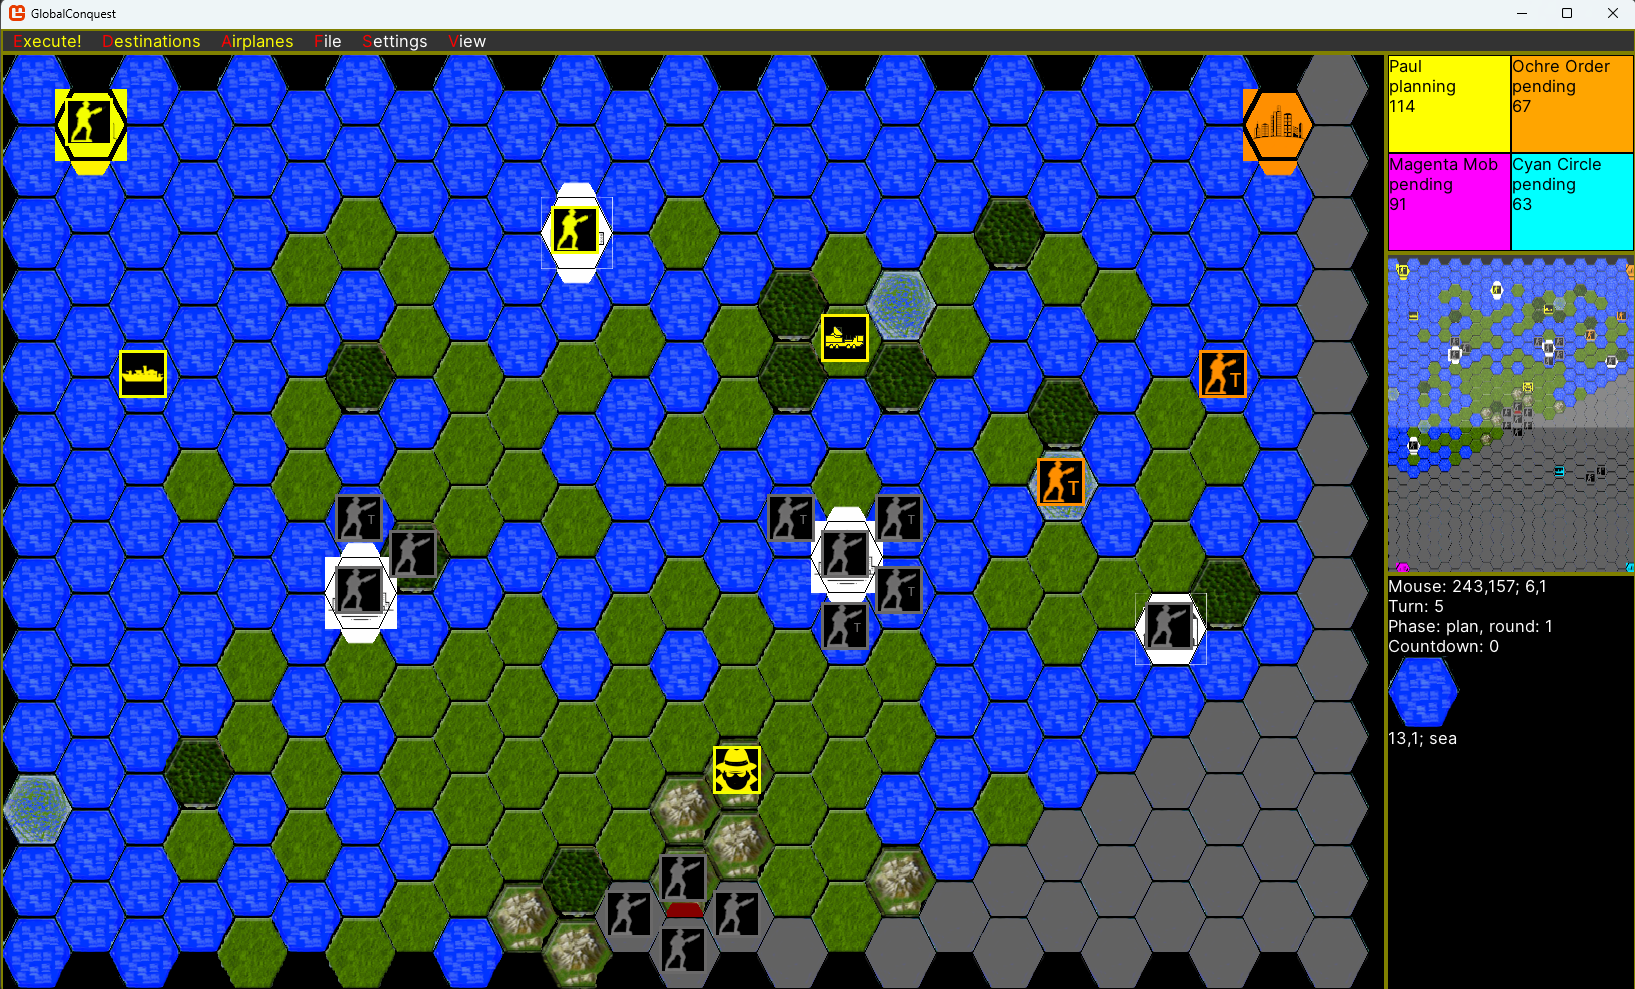
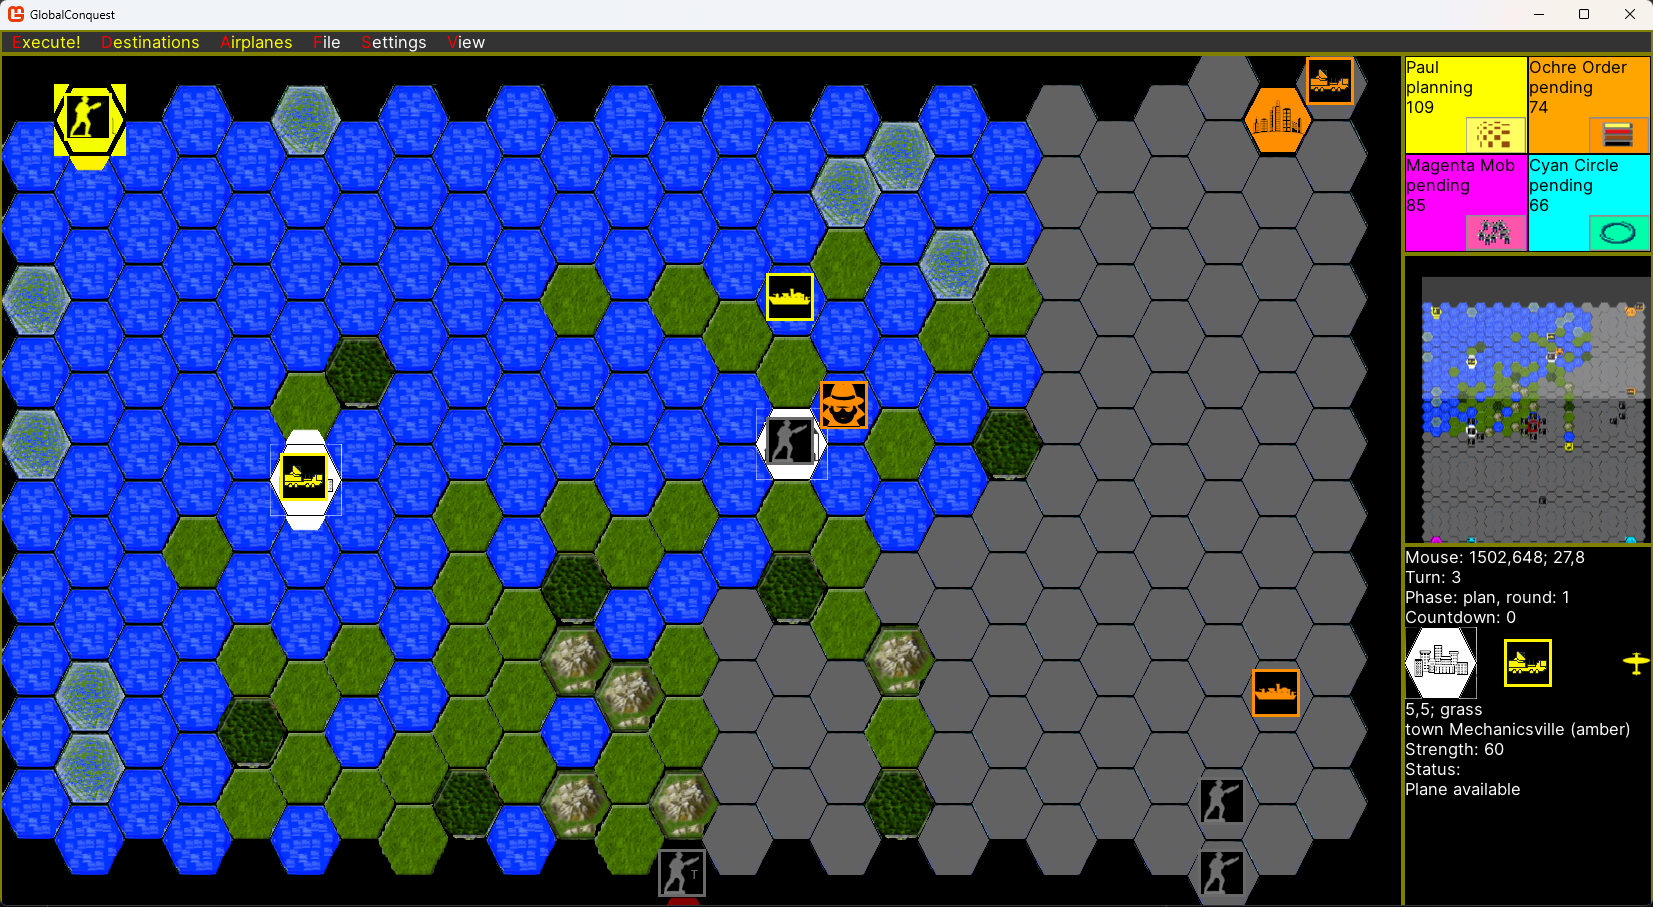
WIP for Decoy ComCen.

diff --git a/HexMapEngineAdapter.cs b/HexMapEngineAdapter.cs
@@ -238,6 +238,11 @@ class HexMapEngineAdapter
         Texture2D cyanSpy = game.Content.Load<Texture2D>("cyan-spy-48x48");
         units["cyan-spy"] = cyanSpy;
 
+        units["amber-decoy-comcen"] = game.Content.Load<Texture2D>("amber-decoy-comcen-48x48");
+        units["cyan-decoy-comcen"] = game.Content.Load<Texture2D>("cyan-decoy-comcen-48x48");
+        units["magenta-decoy-comcen"] = game.Content.Load<Texture2D>("magenta-decoy-comcen-48x48");
+        units["ocher-decoy-comcen"] = game.Content.Load<Texture2D>("ocher-decoy-comcen-48x48");
+
         // magenta-plane-white-30px
         // magenta-plane-black-30px
         // magenta-plane-transparent-30px
@@ -256,6 +261,7 @@ class HexMapEngineAdapter
         textures["amber-array"] = game.Content.Load<Texture2D>("gc-amber-array");
         textures["cyan-circle"] = game.Content.Load<Texture2D>("gc-cyan-circle");
         textures["magenta-mob"] = game.Content.Load<Texture2D>("gc-magenta-mob");
+
 
         Texture2D hexHighlight = game.Content.Load<Texture2D>("YellowHexagonOutline_72x72");
         textures["mapHexHighlight"] = hexHighlight;
@@ -347,90 +353,6 @@ class HexMapEngineAdapter
         Draw_TileMap(csScrollDirection, ciRowPosition, ciColumnPosition);
         //DrawCities();
         //DrawUnits();
-    }
-
-    public void DrawCities()
-    {
-        MapHex[,] hexes = gcGame.Client.GameState.Map.Hexes;
-        Player player = identifySelf();
-        for (int liY = 0; liY < hexHeight; liY++)
-        {
-            for (int liX = 0; liX < hexWidth; liX++)
-            {
-                Burb? burb = hexes[liY, liX].Burb;
-                if (burb != null && !"suburb".Equals(burb.Type) && !"dock".Equals(burb.Type))
-                {
-                    string burbId = burb.Type;
-                    if ("metro".Equals(burb.Type))
-                        burbId = burb.Color + "-" + burb.Type;
-                    drawBurbAtHex(liY, liX, burbId, burb, null, player);
-                }
-            }
-        }
-        for (int liY = 0; liY < hexHeight; liY++)
-        {
-            for (int liX = 0; liX < hexWidth; liX++)
-            {
-                Burb? burb = hexes[liY, liX].Burb;
-                if (burb != null && burb.DirectionFromParent != null)
-                {
-                    drawBurbAtHex(liY, liX, "", burb, null, player);
-                }
-            }
-        }
-    }
-
-    public void DrawUnits()
-    {
-        MapHex[,] hexes = gcGame.Client.GameState.Map.Hexes;
-        bool isObserver = gcGame.Client.IsObserverOnly;
-        for (int liY = 0; liY < hexHeight; liY++)
-        {
-            for (int liX = 0; liX < hexWidth; liX++)
-            {
-                MapHex mapHex = hexes[liY, liX];
-                Player player = identifySelf();
-                Unit unit = mapHex.getUnit();
-                if (unit != null && unit.StrengthPoints > 0)
-                {
-                    Globals.Log("DrawUnits(): " + (unit.TemporarySpyVisibility.ContainsKey(player.FactionColor) ? unit.TemporarySpyVisibility[player.FactionColor] : false));
-                    string unitTypeId = unit.Color + "-" + unit.UnitType;
-                    if (isObserver || 
-                        (unit.Visibility.ContainsKey(player.FactionColor) && 
-                        unit.Visibility[player.FactionColor]) || 
-                        (unit.TemporarySpyVisibility.ContainsKey(player.FactionColor) && 
-                        unit.TemporarySpyVisibility[player.FactionColor])
-                       )
-                    {
-                        if (unit.ParentUnitId == null || gcGame.IsShowAirplanes)
-                            drawUnitAtHex(liY, liX, unitTypeId, null);
-                        if (unit.Airplane != null && gcGame.IsShowAirplanes)
-                        {
-                            //Globals.Log("DrawUnits(): plane found on unit");
-                            drawUnitAtHex(liY, liX, unit.Color + "-plane", null);
-                        }
-                    }
-                    //if (unit.IsAttacked)
-                    //    drawFlame(liY, liX);
-                }
-                Unit plane = mapHex.Airplane;
-                if (plane != null && plane.StrengthPoints > 0)
-                {
-                    string unitTypeId = plane.Color + "-" + plane.UnitType;
-                    // TODO: figure out plane visibility settings
-                    if (isObserver || 
-                        (mapHex.Visibility.ContainsKey(player.FactionColor) && 
-                         mapHex.Visibility[player.FactionColor]))
-                    {
-                        if (plane != null && gcGame.IsShowAirplanes)
-                        {
-                            //Globals.Log("DrawUnits(): plane found on hex");
-                            drawUnitAtHex(liY, liX, unitTypeId, null);
-                        }
-                    }
-                }
-            }
-        }
     }
 
     private void drawUnitAtHex(int row, int column, string unitTypeId, Rectangle? sourceRectangle)
@@ -798,13 +720,12 @@ class HexMapEngineAdapter
 
         int liTileOffsetX = (int)coHexTileMap.cameraWrapper.CAMERA_VECTOR2_LOCATION.X;
         int liTileOffsetY = (int)coHexTileMap.cameraWrapper.CAMERA_VECTOR2_LOCATION.Y;
-
+        Rectangle unitRectangle = new Rectangle(0, 0, 48, 48);
+        Rectangle planeRectangle = new Rectangle(0, 0, 30, 30);
 
         MapHex[,] hexes = gcGame.Client.GameState.Map.Hexes;
         bool isObserver = gcGame.Client.IsObserverOnly;
         Rectangle sourceRectangle = new Rectangle(0, 0, HexMapEngine.Structures.Global.ACTUAL_TILE_WIDTH_IN_PIXELS, HexMapEngine.Structures.Global.ACTUAL_TILE_HEIGHT_IN_PIXELS);
-        Rectangle unitRectangle = new Rectangle(0, 0, 48, 48);
-        Rectangle planeRectangle = new Rectangle(0, 0, 30, 30);
         Player player = identifySelf();
 
         for (int liY = 0; liY < (HexMapEngine.Structures.Global.ACTUAL_MAP_HEIGHT_IN_TILES); liY++)
@@ -860,64 +781,83 @@ class HexMapEngineAdapter
 
                 }
 
-                // DrawCities()
-                Burb? burb = hexes[liY, liX].Burb;
-                if (burb != null && !"suburb".Equals(burb.Type) && !"dock".Equals(burb.Type))
-                {
-                    string burbId = burb.Type;
-                    if ("metro".Equals(burb.Type))
-                        burbId = burb.Color + "-" + burb.Type;
-                    drawBurbAtHex(liY, liX, burbId, burb, sourceRectangle, player);
-                }
-                if (burb != null && burb.DirectionFromParent != null)
-                {
-                    drawBurbAtHex(liY, liX, "", burb, sourceRectangle, player);
-                }
+                DrawBurbAtMapHex(mapHex, player, sourceRectangle);
 
-
-                // DrawUnits
-                Unit unit = mapHex.getUnit();
-                if (unit != null && unit.StrengthPoints > 0)
-                {
-                    string unitTypeId = unit.Color + "-" + unit.UnitType;
-                    if (isObserver || 
-                       (unit.Visibility.ContainsKey(player.FactionColor) && unit.Visibility[player.FactionColor]) ||
-                        (unit.TemporarySpyVisibility.ContainsKey(player.FactionColor) && 
-                        unit.TemporarySpyVisibility[player.FactionColor]))
-                    {
-                        if (unit.ParentUnitId == null || gcGame.IsShowAirplanes)
-                            drawUnitAtHex(liY, liX, unitTypeId, unitRectangle);
-                        if (unit.Airplane != null && gcGame.IsShowAirplanes)
-                        {
-                            //Globals.Log("DrawUnits(): plane found on unit");
-                            drawUnitAtHex(liY, liX, unit.Color + "-plane", planeRectangle);
-                        }
-                    }
-                    //if (unit.IsAttacked)
-                    //    drawFlame(liY, liX);
-                }
-                Unit plane = mapHex.Airplane;
-                if (plane != null && plane.StrengthPoints > 0)
-                {
-                    string unitTypeId = plane.Color + "-" + plane.UnitType;
-                    // TODO: figure out plane visibility settings
-                    if (isObserver || 
-                        (mapHex.Visibility.ContainsKey(player.FactionColor) && mapHex.Visibility[player.FactionColor]) ||
-                        (unit.TemporarySpyVisibility.ContainsKey(player.FactionColor) && 
-                        unit.TemporarySpyVisibility[player.FactionColor]))
-                    {
-                        if (plane != null && gcGame.IsShowAirplanes)
-                        {
-                            //Globals.Log("DrawUnits(): plane found on hex");
-                            drawUnitAtHex(liY, liX, unitTypeId, planeRectangle);
-                        }
-                    }
-                }
-
-
+                DrawUnitAtMapHex(mapHex, isObserver, player, unitRectangle, planeRectangle);
             }
         }
 
+    }
+
+    private void DrawBurbAtMapHex(MapHex mapHex, Player player, Rectangle sourceRectangle)
+    {
+        if (mapHex == null)
+            return;
+        int liY = mapHex.Y;
+        int liX = mapHex.X;
+        Burb? burb = mapHex.Burb;
+        if (burb != null && !"suburb".Equals(burb.Type) && !"dock".Equals(burb.Type))
+        {
+            string burbId = burb.Type;
+            if ("metro".Equals(burb.Type))
+                burbId = burb.Color + "-" + burb.Type;
+            drawBurbAtHex(liY, liX, burbId, burb, sourceRectangle, player);
+        }
+        if (burb != null && burb.DirectionFromParent != null)
+        {
+            drawBurbAtHex(liY, liX, "", burb, sourceRectangle, player);
+        }
+    }
+
+    private void DrawUnitAtMapHex(MapHex mapHex, bool isObserver, Player player, Rectangle unitRectangle, Rectangle planeRectangle)
+    {
+        if (mapHex == null)
+            return;
+        Unit unit = mapHex.getUnit();
+        int liY = mapHex.Y;
+        int liX = mapHex.X;
+        if (unit != null && unit.StrengthPoints > 0)
+        {
+            string unitTypeId = unit.Color + "-" + unit.UnitType;
+            if (DECOY_COMMAND_CENTER.Equals(unit.UnitType) && !player.FactionColor.Equals(unit.Color))
+            {
+                unitTypeId = unit.Color + "-" + COMMAND_CENTER;
+            }
+            if (isObserver || 
+                (unit.Visibility.ContainsKey(player.FactionColor) && unit.Visibility[player.FactionColor]) ||
+                (unit.TemporarySpyVisibility.ContainsKey(player.FactionColor) && 
+                unit.TemporarySpyVisibility[player.FactionColor]))
+            {
+                if (unit.ParentUnitId == null || !gcGame.IsShowAirplanes)
+                {
+                    drawUnitAtHex(liY, liX, unitTypeId, unitRectangle);
+                }
+                if (unit.Airplane != null && gcGame.IsShowAirplanes)
+                {
+                    //Globals.Log("DrawUnits(): plane found on unit");
+                    drawUnitAtHex(liY, liX, unit.Color + "-plane", planeRectangle);
+                }
+            }
+            //if (unit.IsAttacked)
+            //    drawFlame(liY, liX);
+        }
+        Unit plane = mapHex.Airplane;
+        if (plane != null && plane.StrengthPoints > 0)
+        {
+            string unitTypeId = plane.Color + "-" + plane.UnitType;
+            // TODO: figure out plane visibility settings
+            if (isObserver || 
+                (mapHex.Visibility.ContainsKey(player.FactionColor) && mapHex.Visibility[player.FactionColor]) ||
+                (unit.TemporarySpyVisibility.ContainsKey(player.FactionColor) && 
+                unit.TemporarySpyVisibility[player.FactionColor]))
+            {
+                if (plane != null && gcGame.IsShowAirplanes)
+                {
+                    //Globals.Log("DrawUnits(): plane found on hex");
+                    drawUnitAtHex(liY, liX, unitTypeId, planeRectangle);
+                }
+            }
+        }        
     }
 
     private void Draw_HexTile(HexMapEngine.Structures.HexTile poHexTile,

diff --git a/GameState.cs b/GameState.cs
@@ -31,7 +31,7 @@ public class GameState
     public int SecondsRemainingUntilExecution {get; set;}
 
     // if any of the data elements in the entities change above, then this version should be bumped.
-    public string Version { get; set; } = "v0.7.3";
+    public string Version { get; set; } = "v0.7.4";
     private Random rand = new System.Random();
 
 
@@ -112,6 +112,12 @@ public class GameState
             // Test with some large quantity of units
             if (1 == 0)
             {
+                Unit decoyComcen = new Unit();
+                decoyComcen.UnitType = DECOY_COMMAND_CENTER;
+                decoyComcen.Color = color;
+                decoyComcen.setBaseVisibility();
+                placeUnit(Map.Hexes[5,5], directions, decoyComcen);
+
                 for (int i=0; i< 100; i++)
                 {
                     int x = rand.Next(5, 20);
